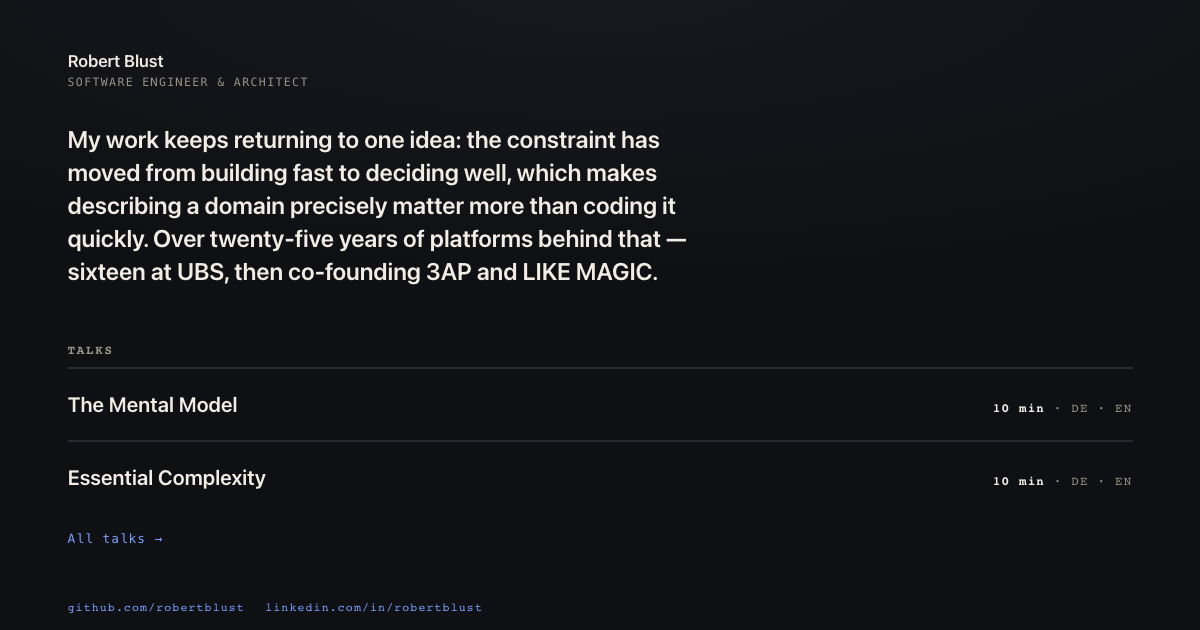
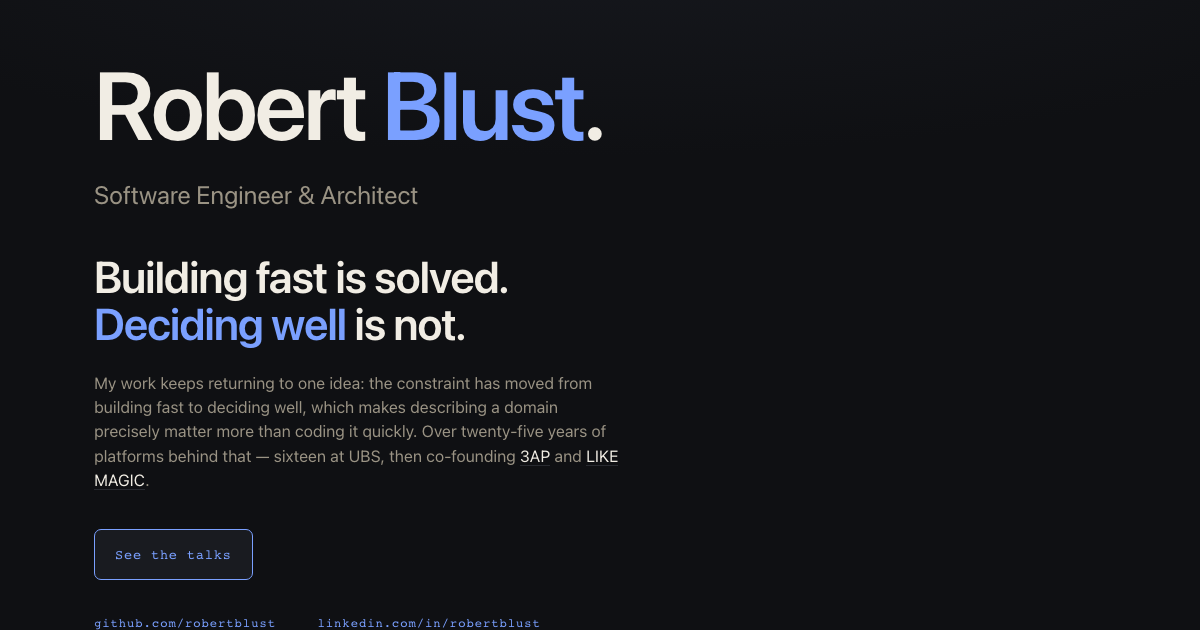
Make the landing page a sibling of guestgraph.io
Same structure, same class names, same type scale — a bar with the name and
one nav item, a hero, a headline, the thesis, one button. What is absent is
absent on purpose: no .split and no .figure, because this page has no diagram
to balance its text against, and a single column is the honest answer rather
than something invented to fill the space.

The talks teaser is gone. It was a second copy of the list on /talks/, which
meant every new talk was two edits and the second was the one that got
forgotten. CLAUDE.md's warning about that obligation goes with it, replaced by
a note saying why the teaser should not come back — a conventions file that
warns about a trap that no longer exists is worse than one that says nothing.

3AP and LIKE MAGIC become links where the sentence already names them, rather
than new furniture in the footer. The verification harness followed the page:
it asserted the landing page contained both talk titles, which it no longer
should.

diff --git a/index.html b/index.html
@@ -19,6 +19,9 @@
 <meta property="og:locale" content="en_GB">
 <meta name="twitter:card" content="summary_large_image">
 <style>
+  /* Structure and type are guestgraph.io's, deliberately — the two pages are siblings and
+     should stay maintainable side by side. What is absent here is absent on purpose: no
+     .split and no .figure, because this page has no diagram to balance its text against. */
   :root{
     --paper:#0f1013; --paper2:#191b20; --ink:#f1ede4; --muted:#9a9384; --cobalt:#7aa0ff;
     --line:#282a30;
@@ -26,87 +29,117 @@
   *{box-sizing:border-box; margin:0; padding:0}
   body{
     font-family:"IBM Plex Sans", ui-sans-serif, system-ui, -apple-system, "Segoe UI", Roboto, sans-serif;
-    background:var(--paper); color:var(--ink); min-height:100vh;
-    background-image:radial-gradient(130% 70% at 50% 0%, #17191f 0%, var(--paper) 62%);
+    background:var(--paper); color:var(--ink); line-height:1.5; min-height:100vh;
+    background-image:radial-gradient(120% 60% at 50% -10%, #17191f 0%, var(--paper) 60%);
     -webkit-font-smoothing:antialiased;
+    display:flex; flex-direction:column;
   }
-  .mono{font-family:"IBM Plex Mono", ui-monospace, "SF Mono", Menlo, monospace}
-  /* same rhythm as the decks: full-bleed, vmin padding — not a centred column */
-  .wrap{padding:11vmin 10vmin 9vmin}
+  a{color:inherit}
 
-  /* name lockup replaces the deck's brand mark — the monogram already lives in the favicon */
-  .lockup{margin-bottom:5vmin}
-  .name{font-weight:600; letter-spacing:-.01em; color:var(--ink);
-        font-size:clamp(1.05rem,2.3vmin,1.5rem)}
-  .role{margin-top:.6vmin; color:var(--muted); letter-spacing:.12em; text-transform:uppercase;
-        font-size:clamp(.72rem,1.4vmin,.95rem)}
+  .shell{width:100%; max-width:1180px; margin:0 auto; padding:0 7vw}
 
-  h1{font-weight:600; line-height:1.38; letter-spacing:-.005em; color:var(--ink);
-     font-size:clamp(1.5rem,3.4vmin,2.5rem); max-width:42ch}
+  header{padding:2rem 0}
+  .bar{display:flex; align-items:center; justify-content:space-between; gap:2rem}
+  .brand{display:flex; align-items:center; gap:.7rem; text-decoration:none}
+  .brand b{font-weight:600; font-size:1.06rem; letter-spacing:-.01em}
+  .brand b span{color:var(--cobalt)}
+  nav{display:flex; gap:1.9rem; font-family:"IBM Plex Mono", ui-monospace, monospace;
+      font-size:.8rem; letter-spacing:.1em; text-transform:uppercase}
+  nav a{color:var(--muted); text-decoration:none; padding-bottom:.2rem;
+        border-bottom:1px solid transparent}
+  nav a:hover, nav a:focus-visible{color:var(--ink); border-color:var(--cobalt)}
 
-  .talks{margin-top:8vmin}
-  .talks h2{font-family:"IBM Plex Mono",monospace; letter-spacing:.14em; text-transform:uppercase;
-            color:var(--muted); margin-bottom:1.6vmin; font-size:clamp(.78rem,1.5vmin,1rem)}
-  .talk{
-    display:grid; grid-template-columns:1fr auto; gap:1.2rem 3vmin; align-items:baseline;
-    border-top:2px solid var(--line); padding:3.4vmin 0;
-    text-decoration:none; color:inherit; transition:border-color .2s ease;
+  main{flex:1; display:flex; align-items:center; padding:2vh 0 5vh}
+
+  .title h1{font-weight:600; letter-spacing:-.03em; line-height:1.02;
+            font-size:clamp(3rem,8vw,6.2rem)}
+  .title h1 span{color:var(--cobalt)}
+  .tagline{margin-top:1.6rem; font-size:clamp(1.15rem,2.1vw,1.62rem); color:var(--muted);
+           max-width:34ch; line-height:1.38}
+
+  /* where guestgraph.io has .split, this page has one column */
+  .pitch{margin-top:clamp(2.5rem,5vh,4.6rem)}
+  h2{font-weight:600; letter-spacing:-.025em; line-height:1.06;
+     font-size:clamp(1.9rem,3.7vw,3rem)}
+  h2 em{font-style:normal; color:var(--cobalt)}
+  .lede{margin-top:1.5rem; font-size:clamp(1rem,1.35vw,1.18rem); color:var(--muted);
+        max-width:52ch}
+  .lede a{color:var(--ink); text-decoration:none; border-bottom:1px solid var(--line);
+          transition:color .18s ease, border-color .18s ease}
+  .lede a:hover, .lede a:focus-visible{color:var(--cobalt); border-color:var(--cobalt)}
+
+  .cta{margin-top:2.3rem; display:flex; flex-wrap:wrap; gap:1rem}
+  .btn{
+    font-family:"IBM Plex Mono", ui-monospace, monospace; font-size:.85rem; letter-spacing:.06em;
+    text-decoration:none; padding:.9rem 1.25rem; border-radius:7px; border:1.5px solid var(--line);
+    color:var(--ink); background:var(--paper2);
+    transition:border-color .18s ease, color .18s ease, background-color .18s ease;
   }
-  .talk:last-of-type{border-bottom:2px solid var(--line)}
-  .talk:hover{border-color:var(--cobalt)}
-  .talk:hover .t{color:var(--cobalt)}
-  .t{font-size:clamp(1.3rem,3vmin,2rem); font-weight:600; line-height:1.2; transition:color .2s ease}
-  .meta{
-    font-family:"IBM Plex Mono",monospace; font-size:clamp(.78rem,1.5vmin,1.05rem);
-    color:var(--muted); letter-spacing:.1em; white-space:nowrap; text-align:right;
+  .btn:hover, .btn:focus-visible{border-color:var(--cobalt); color:var(--cobalt)}
+  .btn.primary{border-color:var(--cobalt); color:var(--cobalt)}
+  .btn.primary:hover, .btn.primary:focus-visible{background:#1b2233}
+
+  footer{padding:0 0 2rem; display:flex; flex-wrap:wrap; gap:.9rem 2.6rem; align-items:center;
+         font-family:"IBM Plex Mono", ui-monospace, monospace; font-size:.76rem;
+         letter-spacing:.08em; color:var(--muted)}
+  footer a{color:var(--cobalt); text-decoration:none}
+  footer a:hover, footer a:focus-visible{text-decoration:underline}
+
+  :focus-visible{outline:2px solid var(--cobalt); outline-offset:3px; border-radius:3px}
+
+  @media (max-width:900px){
+    .tagline{max-width:100%}
+    .lede{max-width:100%}
+    nav{gap:1.4rem}
+    main{padding:1vh 0 4vh}
   }
-  .meta b{color:var(--ink); font-weight:600}
-  .more{display:inline-block; margin-top:2.6vmin; color:var(--cobalt); text-decoration:none;
-        letter-spacing:.08em; font-size:clamp(.8rem,1.5vmin,1rem)}
-  .more:hover{text-decoration:underline}
-
-  .foot{margin-top:8vmin; display:flex; flex-wrap:wrap; gap:.9rem 3vmin;
-        font-family:"IBM Plex Mono",monospace; font-size:clamp(.72rem,1.4vmin,.95rem);
-        letter-spacing:.1em; color:var(--muted)}
-  .foot a{color:var(--cobalt); text-decoration:none}
-  .foot a:hover{text-decoration:underline}
-
-  @media (max-width:860px), (max-aspect-ratio:4/5){
-    .wrap{padding:16vmin 7vw 10vh}
-    h1{font-size:clamp(1.3rem,6vw,2rem); max-width:100%}
-    .talk{grid-template-columns:1fr; gap:.6rem 1.2rem}
-    .meta{grid-column:1; text-align:left; margin-top:.2rem}
+  @media (prefers-reduced-motion:reduce){
+    .btn, .lede a, nav a{transition:none}
   }
 </style>
 </head>
 <body>
 
-<main class="wrap">
-  <div class="lockup">
-    <div class="name">Robert Blust</div>
-    <div class="role mono">Software Engineer &amp; Architect</div>
-  </div>
+<div class="shell">
+  <header>
+    <div class="bar">
+      <a class="brand" href="./"><b>Robert <span>Blust</span></b></a>
+      <nav>
+        <a href="talks/">Talks</a>
+      </nav>
+    </div>
+  </header>
+</div>
 
-  <h1>My work keeps returning to one idea: the constraint has moved from building fast to deciding well, which makes describing a domain precisely matter more than coding it quickly. Over twenty-five years of platforms behind that — sixteen at UBS, then co-founding 3AP and LIKE MAGIC.</h1>
+<main>
+  <div class="shell">
+    <div class="title">
+      <h1>Robert <span>Blust</span>.</h1>
+      <p class="tagline">Software Engineer &amp; Architect</p>
+    </div>
 
-  <section class="talks">
-    <h2>Talks</h2>
-    <a class="talk" href="talks/mental-model/">
-      <span class="t">The Mental Model</span>
-      <span class="meta mono"><b>10 min</b> · DE · EN</span>
-    </a>
-    <a class="talk" href="talks/essential-complexity/">
-      <span class="t">Essential Complexity</span>
-      <span class="meta mono"><b>10 min</b> · DE · EN</span>
-    </a>
-    <a class="more mono" href="talks/">All talks →</a>
-  </section>
-
-  <div class="foot">
-    <span><a target="_blank" rel="noopener" href="https://github.com/robertblust">github.com/robertblust</a></span>
-    <span><a target="_blank" rel="noopener" href="https://www.linkedin.com/in/robertblust/">linkedin.com/in/robertblust</a></span>
+    <div class="pitch">
+      <h2>Building fast is solved.<br><em>Deciding well</em> is not.</h2>
+      <p class="lede">
+        My work keeps returning to one idea: the constraint has moved from building fast to
+        deciding well, which makes describing a domain precisely matter more than coding it
+        quickly. Over twenty-five years of platforms behind that — sixteen at UBS, then
+        co-founding <a target="_blank" rel="noopener" href="https://3ap.ch">3AP</a> and
+        <a target="_blank" rel="noopener" href="https://likemagic.tech">LIKE MAGIC</a>.
+      </p>
+      <div class="cta">
+        <a class="btn primary" href="talks/">See the talks</a>
+      </div>
+    </div>
   </div>
 </main>
+
+<div class="shell">
+  <footer>
+    <span><a target="_blank" rel="noopener" href="https://github.com/robertblust">github.com/robertblust</a></span>
+    <span><a target="_blank" rel="noopener" href="https://www.linkedin.com/in/robertblust/">linkedin.com/in/robertblust</a></span>
+  </footer>
+</div>
 
 </body>
 </html>

diff --git a/CLAUDE.md b/CLAUDE.md
@@ -34,14 +34,14 @@ check that catches a page that parses fine and renders wrong.
 
 ## Adding or editing a talk
 
-**A talk lives in two files, not one.** `talks/index.html` carries the descriptions —
-that is the page whose job is to explain what each talk is about. The root `index.html`
-carries a one-line teaser (title, length, language, link) in the same paragraph as the
-thesis. That split is deliberate: the profile page stays a single scroll, not a second
-copy of the talks index. It also means the two pages can and do list the same talks —
-that duplication is intentional, not drift. The teaser line in the root `index.html` is
-one line and it is the edit that gets forgotten; when a talk changes, check both files
-before calling it done.
+**A talk lives in one file.** `talks/index.html` is the only page that names a talk;
+the root `index.html` links to `/talks/` and lists nothing. It used to carry a teaser
+copy of the list, which meant every new talk was two edits and the second was the one
+that got forgotten. That teaser is gone, and this note exists so nobody helpfully adds
+it back.
+
+The root page's nav and its one button both point at `talks/` and neither needs
+touching when the talks change.
 
 ## No external assets, anywhere
 
